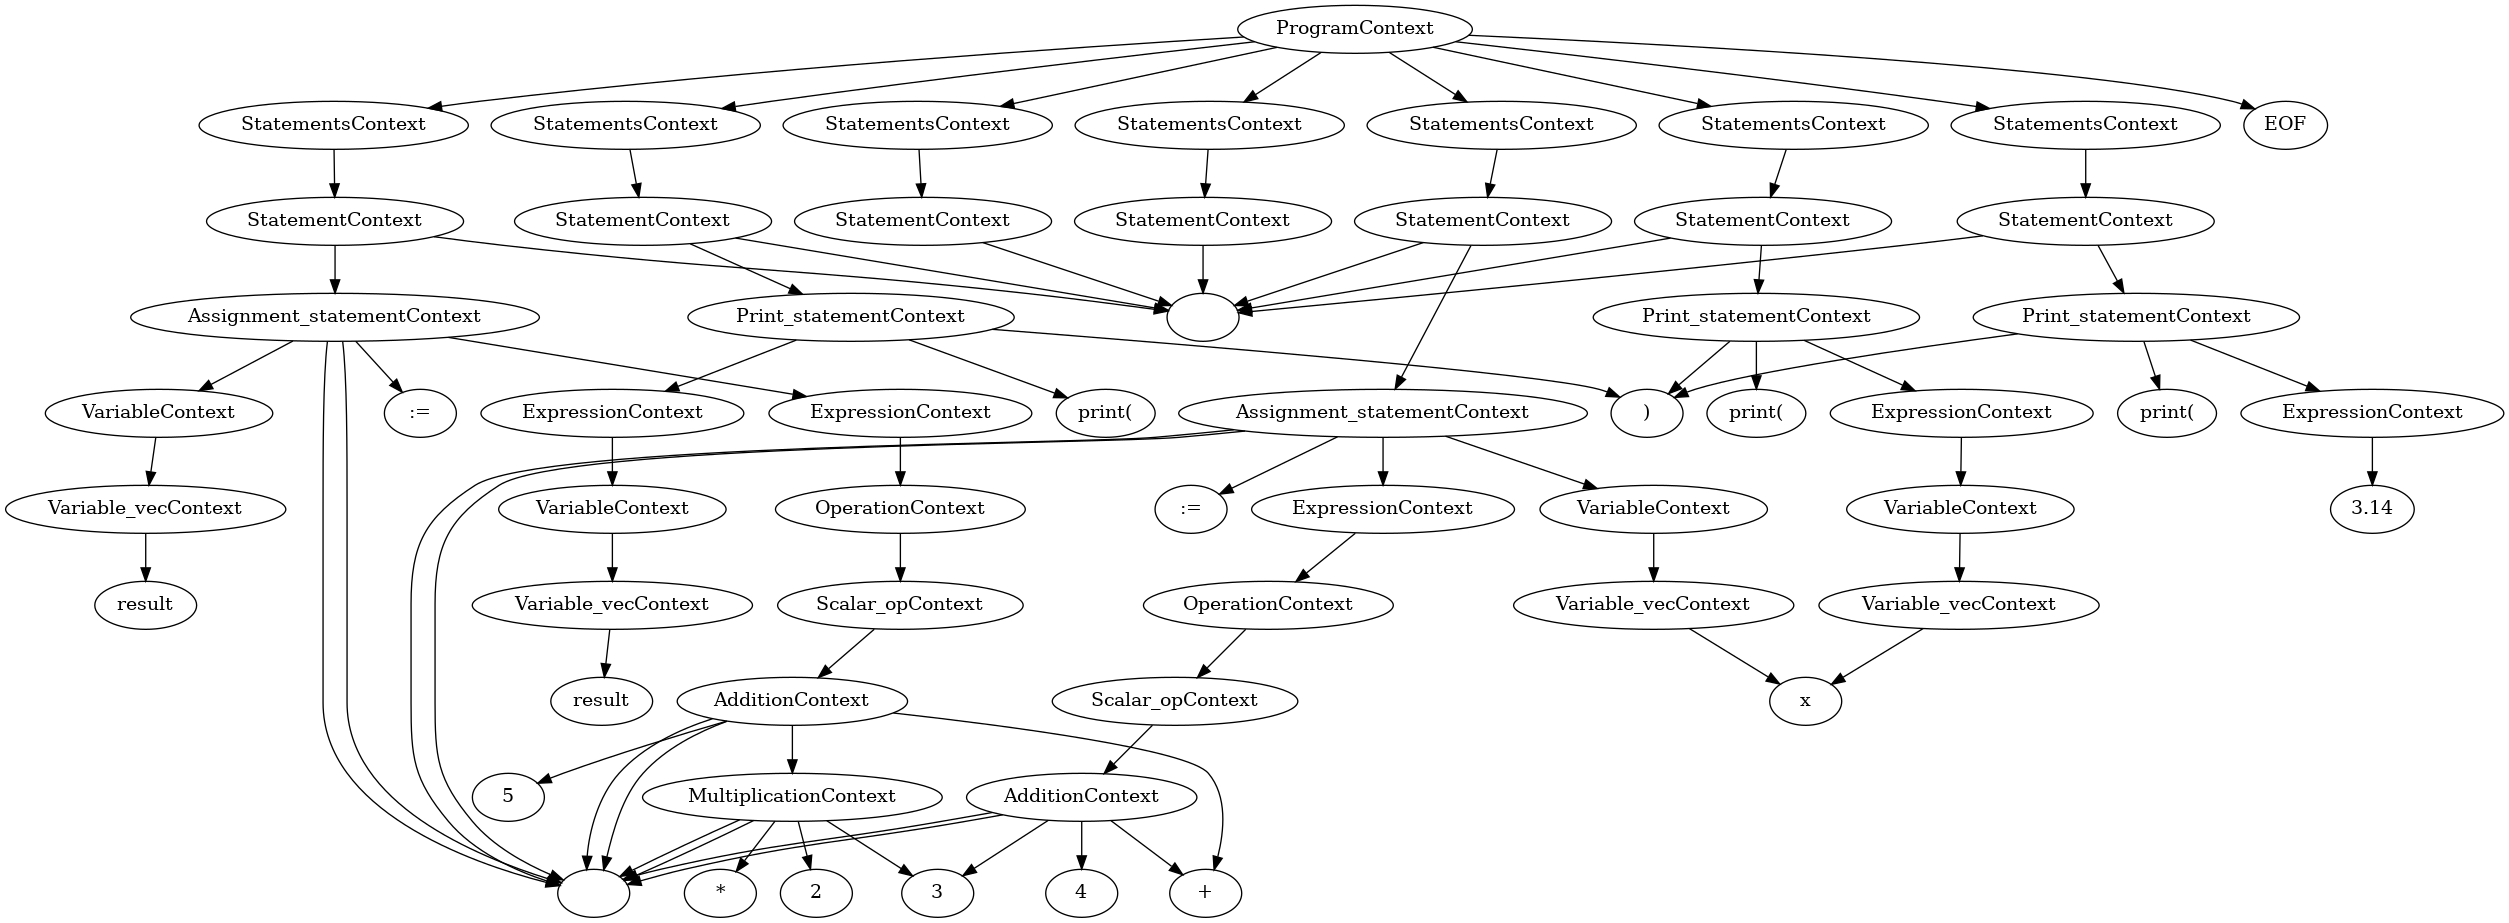
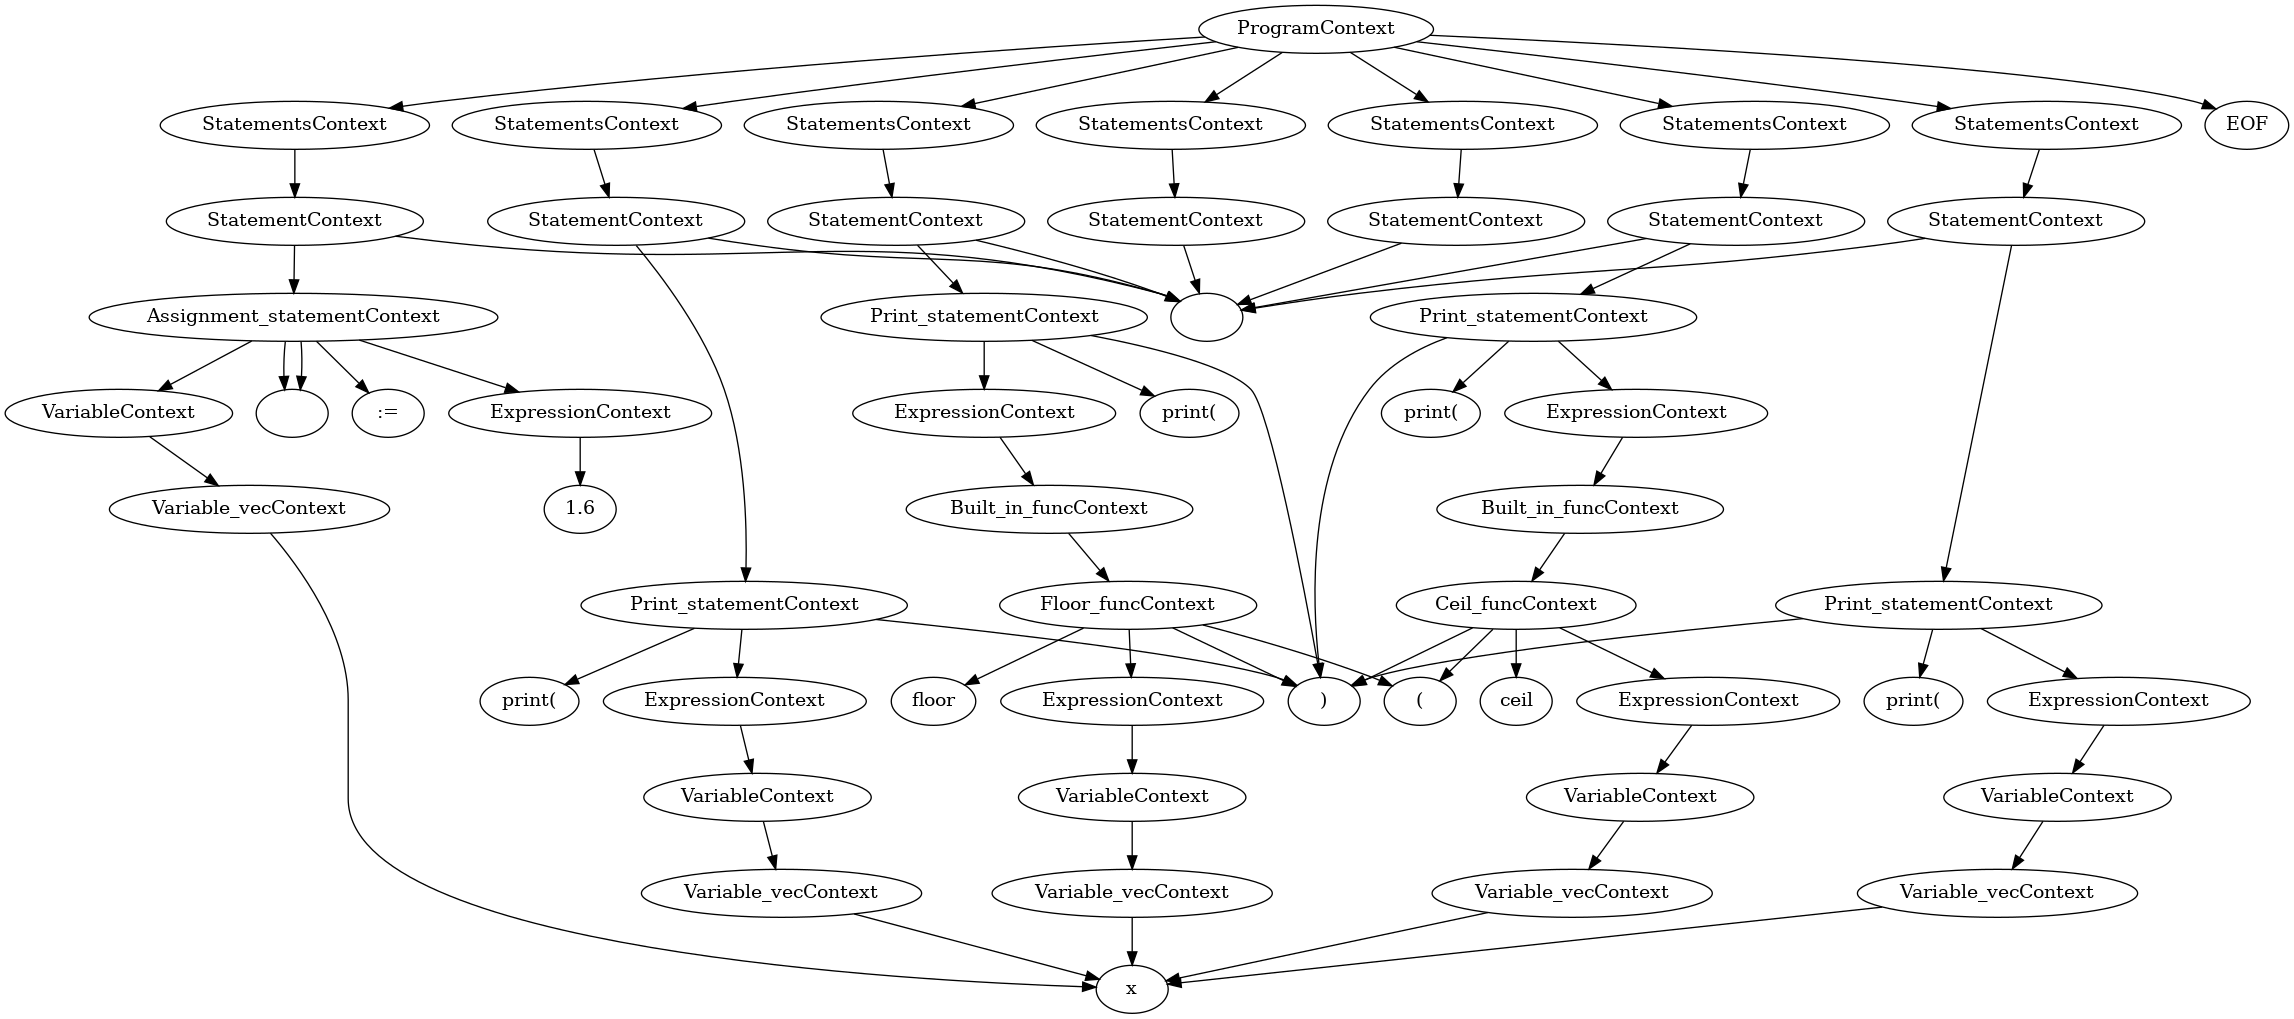
Added floor and ceil as well as their corresponding examples

diff --git a/VisitorImpl.py b/VisitorImpl.py
@@ -29,7 +29,13 @@ class VisitorImpl(GrammarVisitor):
             elif isinstance(child, GrammarParser.MatrixContext):
                 pass
             elif isinstance(child, GrammarParser.ExpressionContext):
-                val = self.visitExpression(child)
+                if isinstance(child.getChild(0), TerminalNodeImpl):
+                    if is_float(str(child.getChild(0))):
+                        val = float(str(child.getChild(0)))
+                    else:
+                        raise InterpreterError(f'{str(child.getChild(0))} is not a numeric value')
+                else:
+                    val = self.visitExpression(child)
 
         self.variables[var] = val
         #print(f'{var}: {val}')
@@ -67,9 +73,9 @@ class VisitorImpl(GrammarVisitor):
                     if self.variables[str(child.getChild(0).getChild(0).getChild(0))] is not None:
                         self.output += f'{self.variables[str(child.getChild(0).getChild(0).getChild(0))]}\n'
                         print(self.variables[str(child.getChild(0).getChild(0).getChild(0))])
-                # else:
-                #     self.output += f'{self.variables[str(child.getChild(0).getChild(0).getChild(0))]}\n'
-                #     print(self.variables[str(child.getChild(0).getChild(0).getChild(0))])
+                elif isinstance(child.getChild(0), GrammarParser.Built_in_funcContext):
+                    self.output += f'{self.visitBuilt_in_func(child.getChild(0))}\n'
+                    print(str(self.visitBuilt_in_func(child.getChild(0))))
 
         return self.visitChildren(ctx)
 
@@ -135,6 +141,32 @@ class VisitorImpl(GrammarVisitor):
             else:
                 if is_float(str(child.getChild(0))):
                     return np.exp(float(str(child.getChild(0))))
+                else:
+                    raise InterpreterError(f'{str(child.getChild(0))} is not a numeric value')
+
+    def visitFloor_func(self, ctx:GrammarParser.Floor_funcContext):
+        for child in ctx.children:
+            if not isinstance(child.getChild(0), TerminalNodeImpl):
+                if isinstance(child.getChild(0), GrammarParser.VariableContext):
+                    var = str(child.getChild(0).getChild(0).getChild(0))
+                    self.variables[var] = np.floor(float(self.variables[var]))
+                    return self.variables[var]
+            else:
+                if is_float(str(child.getChild(0))):
+                    return np.floor(float(str(child.getChild(0))))
+                else:
+                    raise InterpreterError(f'{str(child.getChild(0))} is not a numeric value')
+
+    def visitCeil_func(self, ctx:GrammarParser.Floor_funcContext):
+        for child in ctx.children:
+            if not isinstance(child.getChild(0), TerminalNodeImpl):
+                if isinstance(child.getChild(0), GrammarParser.VariableContext):
+                    var = str(child.getChild(0).getChild(0).getChild(0))
+                    self.variables[var] = np.ceil(float(self.variables[var]))
+                    return self.variables[var]
+            else:
+                if is_float(str(child.getChild(0))):
+                    return np.ceil(float(str(child.getChild(0))))
                 else:
                     raise InterpreterError(f'{str(child.getChild(0))} is not a numeric value')
 

diff --git a/interpreter.py b/interpreter.py
@@ -49,7 +49,7 @@ def interpret(code: str) -> str:
         out += f'Error encountered: {interpreter.error_message}'
     return out
 
-print(interpret(read_file('test_examples/exp.txt')))
+print(interpret(read_file('test_examples/floor_ceil.txt')))
 
 # def parse_file_to_nested_list(input_file='simple_example.txt'):
 #     with open(input_file, 'r') as f:

diff --git a/main.py b/main.py
@@ -74,5 +74,5 @@ def parse_code_to_nested_list(code: str):
 
 if __name__ == "__main__":
     main()
-    generateTree(read_file('test_examples/example2.txt'))
+    generateTree(read_file('test_examples/floor_ceil.txt'))
 
